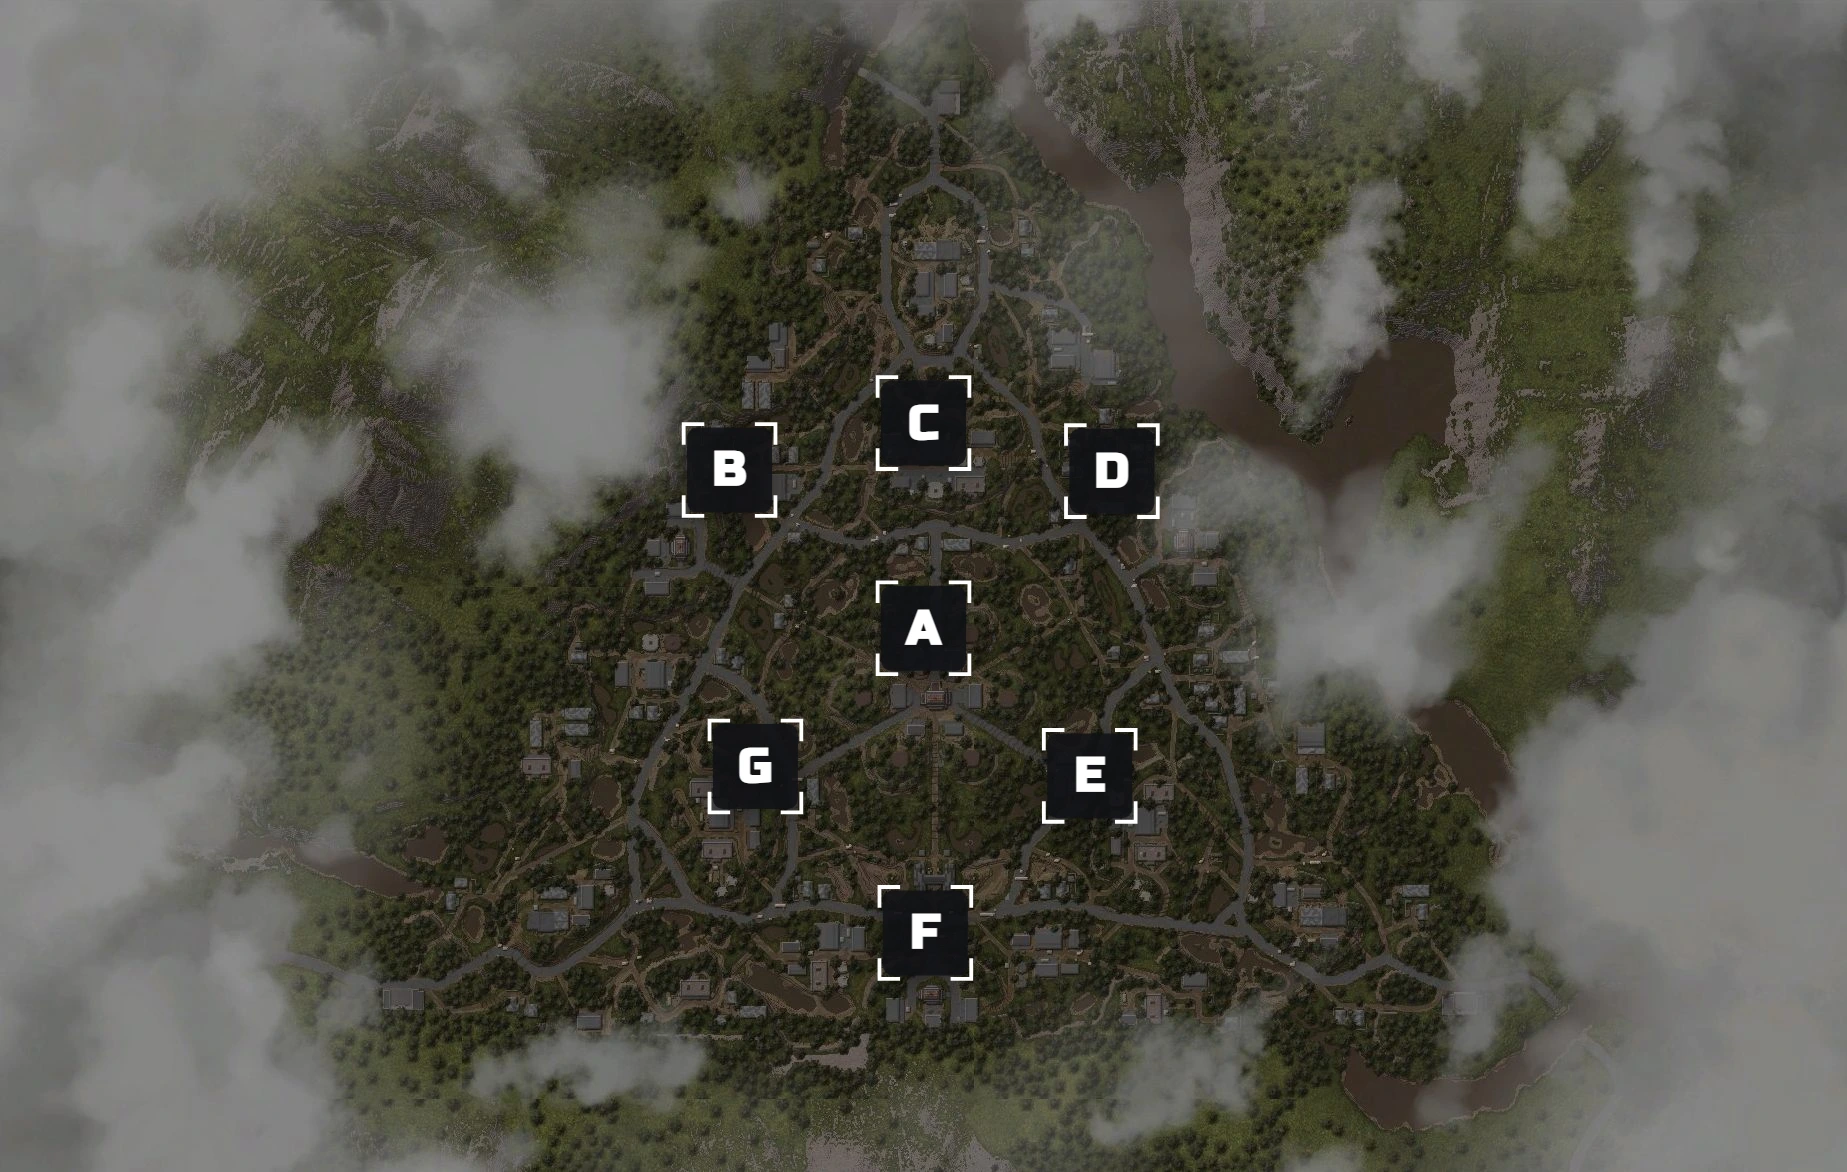
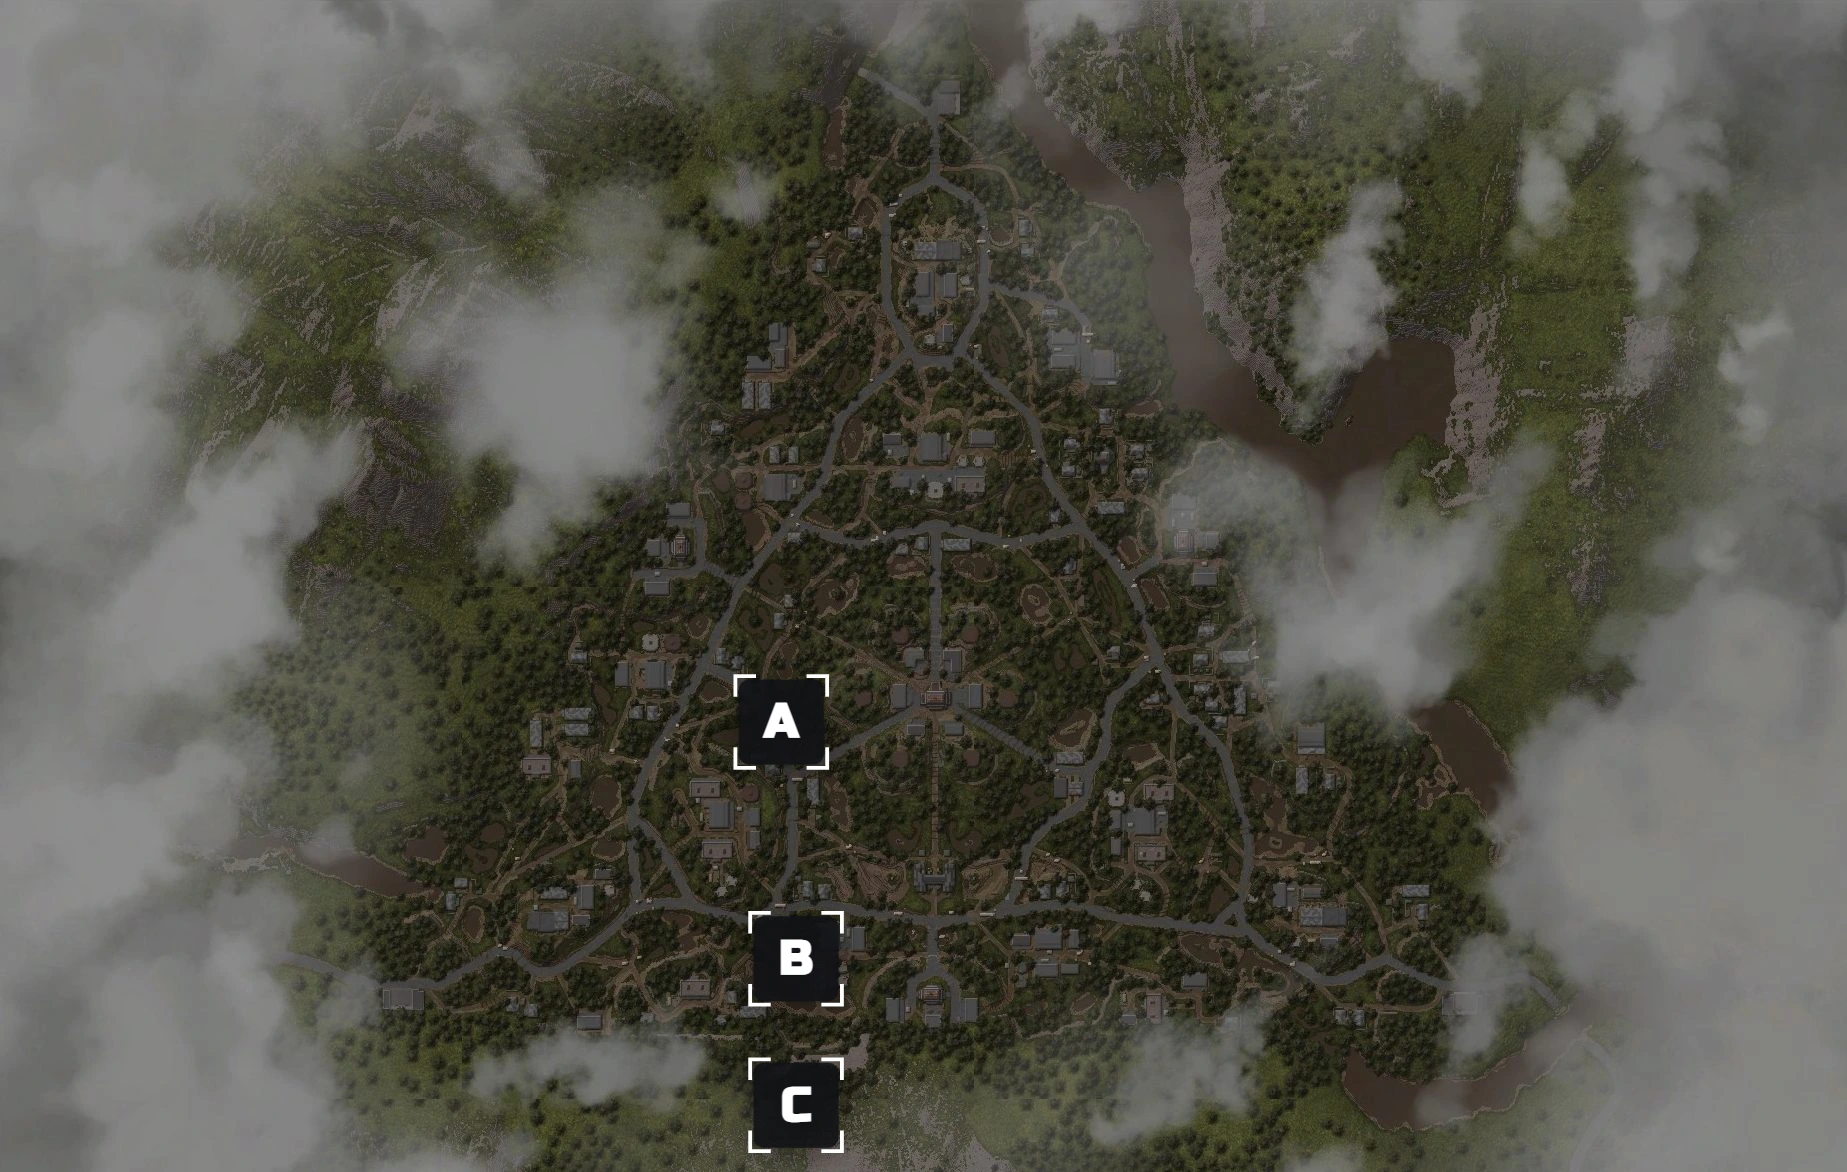
feat: new Nizina capture layout with three points from July 2026 reference

diff --git a/index.html b/index.html
@@ -1842,7 +1842,7 @@ const TAC_MAPS = {
   hvoiny: { name: 'Хвойный', file: 'tactics/hvoiny.jpg', capsFile: 'tactics/hvoiny_caps.webp', w: 1297, h: 991,
     caps: [[0.316, 0.560], [0.493, 0.555], [0.675, 0.560]] },
   nizina: { name: 'Низина', file: 'tactics/nizina.jpg', capsFile: 'tactics/nizina_caps.webp', w: 1847, h: 1172,
-    caps: [[0.500, 0.536], [0.395, 0.401], [0.500, 0.361], [0.602, 0.402], [0.590, 0.662], [0.501, 0.796], [0.409, 0.654]] }
+    caps: [[0.423, 0.616], [0.431, 0.818], [0.431, 0.943]] }
 };
 const TAC_COLORS = [['#ff2d55', 'красный'], ['#ff8a3d', 'оранжевый'], ['#ffd23f', 'жёлтый'], ['#2ee66b', 'зелёный'],
   ['#29d3ff', 'голубой'], ['#b47cff', 'фиолетовый'], ['#ffffff', 'белый'], ['#0b1020', 'чёрный']];
